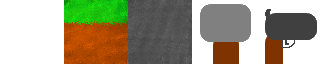
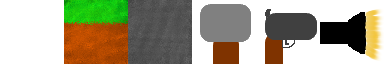
Attempt at having a toggle flashlight

diff --git a/client/js/player/items.js b/client/js/player/items.js
@@ -25,6 +25,7 @@ Item.DIRT   = function () { return new Item(0x1); };
 Item.STONE  = function () { return new Item(0x2); };
 Item.SHOVEL = function () { return new Item(0x3); };
 Item.GUN    = function () { return new Item(0x4); };
+Item.LIGHT  = function () { return new Item(0x5); };
 
 // Item properties
 Item.STACKABLE = 0x1;
@@ -35,6 +36,7 @@ Item.PROPERTIES = [
     /** STONE  */ Item.STACKABLE,
     /** SHOVEL */ 0,
     /** GUN    */ 0,
+    /** LIGHT  */ 0,
 ];
 
 Item.isStackable = function (item) {
@@ -54,6 +56,10 @@ Item.throttle = function (func, param) {
             t = t2;
         }
     };
+};
+
+Item.lightAction = function (world, camera) {
+    world.toggleLight();
 };
 
 Item.pistolAction = function (world, camera) {
@@ -99,5 +105,10 @@ Item.DATA = [
         model: function () { return Models.pistol(); },
         action: Item.pistolAction,
         icon: 4,
-    }
+    },{
+        name: 'light',
+        model: null,
+        action: Item.lightAction,
+        icon: 5,
+    },
 ];

diff --git a/client/js/player/player.js b/client/js/player/player.js
@@ -25,7 +25,7 @@ function Player(name, world, conn, controls) {
     flashLight.shadowMapWidth = 1024;
     flashLight.shadowMapHeight = 1024;
 
-    flashLight.intensity = 0.8;
+    flashLight.intensity = 0.0;
     flashLight.distance = 25;
     flashLight.exponent = 20;
     flashLight.shadowCameraNear = 0.1;
@@ -33,6 +33,13 @@ function Player(name, world, conn, controls) {
     flashLight.shadowCameraFov = 10;
     camera.add(flashLight.target);
     flashLight.target.position.set(0, 0, -1);
+
+    var lightIsOn = false;
+
+    self.toggleLight = function () {
+        lightIsOn = !lightIsOn;
+        flashLight.intensity = lightIsOn ? 0.8 : 0.0;
+    };
 
     var inventory = new Inventory(world, camera, conn, controls);
     var prediction = new PlayerPrediction(world, conn, camera.position);

diff --git a/client/js/world.js b/client/js/world.js
@@ -84,6 +84,10 @@ function World(scene, container) {
         scene.add(cube);
     };
 
+    self.toggleLight = function () {
+        player.toggleLight();
+    };
+
     self.blockAt = function (wx, wy, wz) {
         var cords = worldToChunk(wx, wy, wz);
         var oc = cords.o;

diff --git a/server/src/buildblast/game/items.go b/server/src/buildblast/game/items.go
@@ -22,11 +22,11 @@ const (
 	ITEM_STONE  = byte(2)
 	ITEM_SHOVEL = byte(3)
 	ITEM_GUN    = byte(4)
+	ITEM_LIGHT  = byte(5)
 
 	// Properties
 	STACKABLE = 0x1 << 0
 	SHOOTABLE = 0x1 << 1
-
 )
 
 var ITEM_PROPERTIES []uint32 = []uint32 {
@@ -35,6 +35,7 @@ var ITEM_PROPERTIES []uint32 = []uint32 {
 	/** STONE  */ STACKABLE,
 	/** SHOVEL */ 0,
 	/** GUN    */ SHOOTABLE,
+	/** LIGHT  */ 0,
 }
 
 var ITEM_FROM_BLOCK []byte = []byte {
